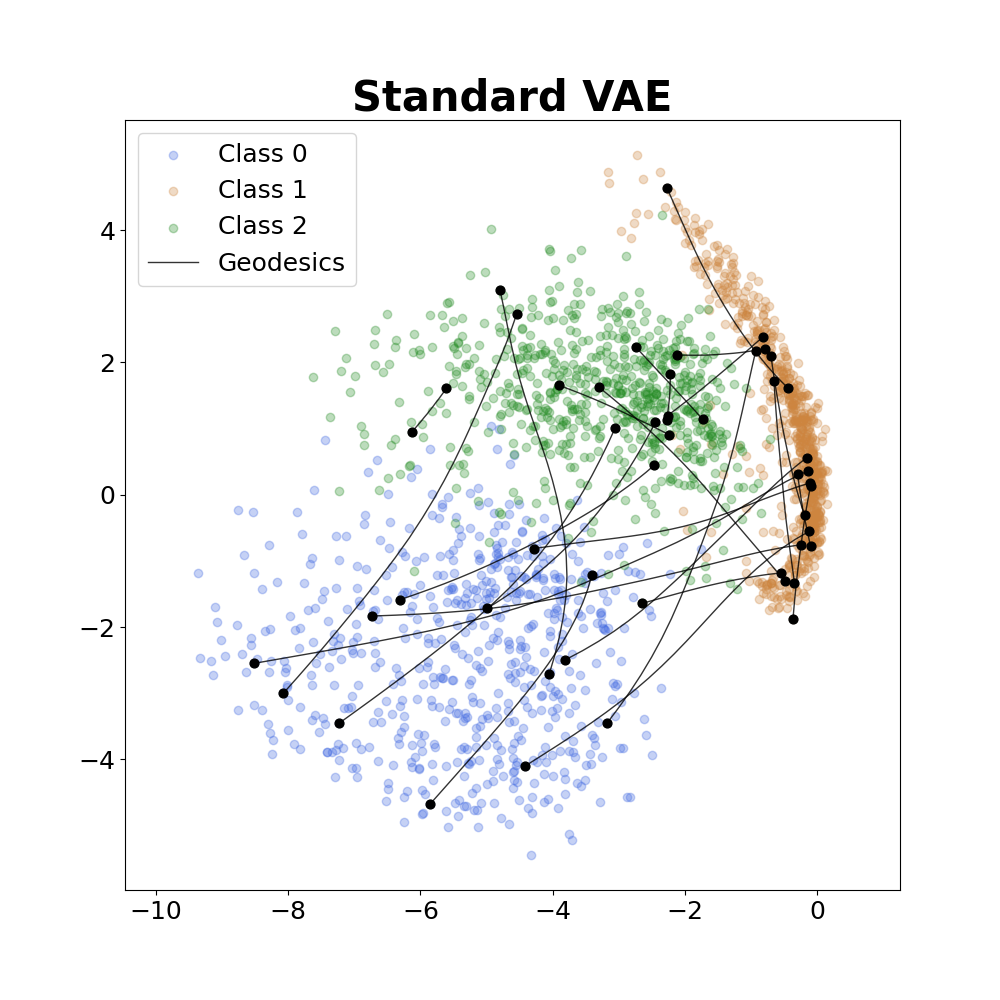
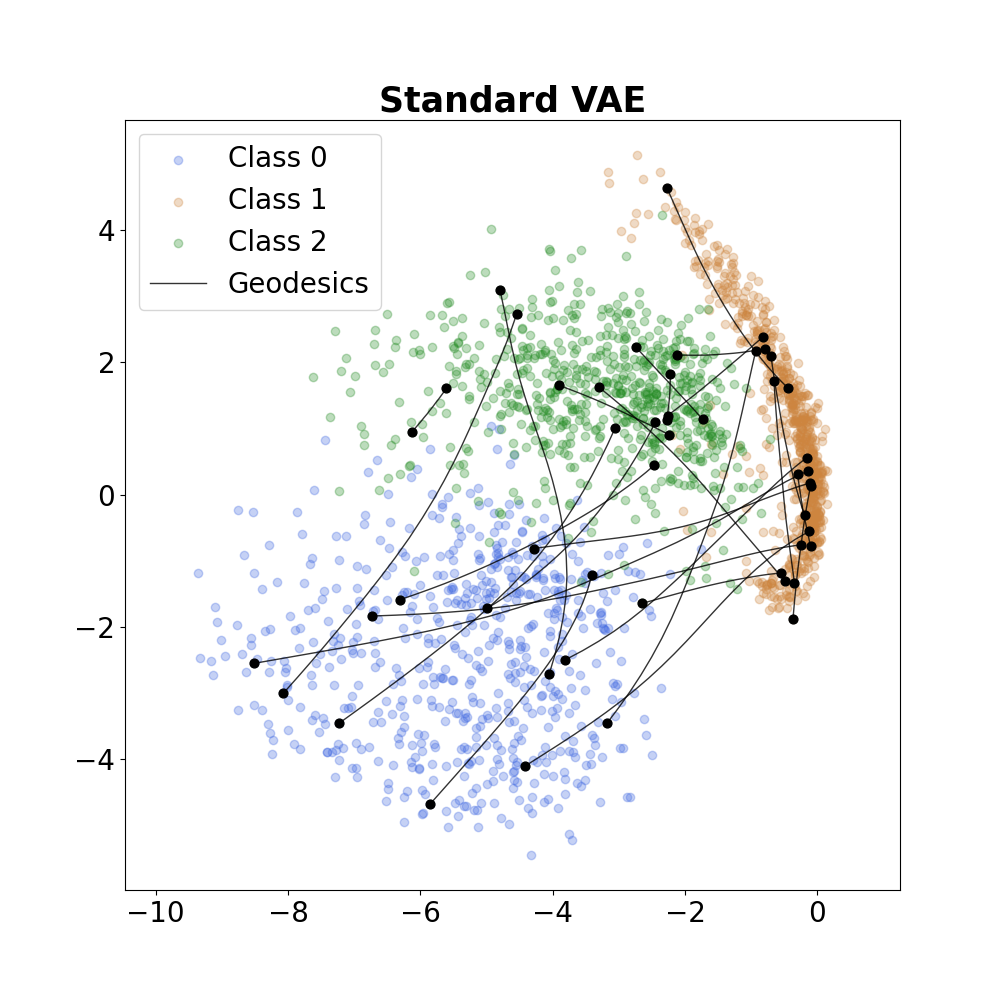
added new plots for PartB

diff --git a/PartA/ensemble_vae_v2.py b/PartA/ensemble_vae_v2.py
@@ -68,7 +68,7 @@ class GaussianEncoder(nn.Module):
 
 
 class GaussianDecoder(nn.Module):
-    def __init__(self, decoder_net):
+    def __init__(self, decoder_nets: list):
         """
         Define a Bernoulli decoder distribution based on a given decoder network.
 
@@ -79,7 +79,8 @@ class GaussianDecoder(nn.Module):
            tensor of dimension (batch_size, feature_dim1, feature_dim2).
         """
         super(GaussianDecoder, self).__init__()
-        self.decoder_net = decoder_net
+        self.decoder_nets = nn.ModuleList(decoder_nets)
+        self.num_decoders = len(decoder_nets)
         # self.std = nn.Parameter(torch.ones(28, 28) * 0.5, requires_grad=True) # In case you want to learn the std of the gaussian.
 
     def forward(self, z):
@@ -90,7 +91,8 @@ class GaussianDecoder(nn.Module):
         z: [torch.Tensor]
            A tensor of dimension `(batch_size, M)`, where M is the dimension of the latent space.
         """
-        means = self.decoder_net(z)
+        decoder_choice = 0
+        means = self.decoder_nets[decoder_choice](z)
         return td.Independent(td.Normal(loc=means, scale=1e-1), 3)
 
 
@@ -295,7 +297,7 @@ if __name__ == "__main__":
     # args = parser.parse_args()
     
     # For debugging
-    args = parser.parse_args(["plot", "--experiment-folder", "experiment", "--device", "cpu", "--batch-size", "2048", "--epochs-per-decoder", "50", "--latent-dim", "2", "--num-decoders", "3", "--num-reruns", "10", "--num-curves", "10", "--num-t", "20"])
+    args = parser.parse_args(["plot", "--experiment-folder", "experiment", "--device", "cpu", "--batch-size", "2048", "--epochs-per-decoder", "50", "--latent-dim", "2", "--num-decoders", "1", "--num-reruns", "10", "--num-curves", "10", "--num-t", "20"])
 
     print("# Options")
     for key, value in sorted(vars(args).items()):
@@ -417,11 +419,11 @@ if __name__ == "__main__":
             plt.scatter([start[0]], [start[1]], color='black', zorder=2, s=40, marker='o')
             plt.scatter([end[0]], [end[1]], color='black', zorder=2, s=40, marker='o')
 
-        plt.title("Standard VAE", fontsize=30, fontweight='bold')
+        plt.title("Standard VAE", fontsize=25, fontweight='bold')
         plt.axis('equal')
-        plt.xticks(fontsize=18)
-        plt.yticks(fontsize=18)
-        plt.legend(prop={'size': 18})
+        plt.xticks(fontsize=20)
+        plt.yticks(fontsize=20)
+        plt.legend(prop={'size': 20})
         plt.savefig(save_path)
 
 ###########################################
@@ -493,10 +495,14 @@ if __name__ == "__main__":
 
         model = VAE(
             GaussianPrior(M),
-            GaussianDecoder(new_decoder()),
+            GaussianDecoder([new_decoder() for _ in range(args.num_decoders)]),
             GaussianEncoder(new_encoder()),
         ).to(device)
-        model.load_state_dict(torch.load(args.experiment_folder + "/model.pt", map_location=torch.device('cpu')))
+
+        # print(os.getcwd())
+        model_name = "model_run1_dec1"
+        path = "../PartB_Information_geom/experiment/" + model_name + ".pt"
+        model.load_state_dict(torch.load(path, map_location=torch.device('cpu')))
         model.eval()
 
  ###########################################
@@ -541,9 +547,11 @@ if __name__ == "__main__":
         # Compute geodesics for latent variable pairs
         geodesics = []
         for i, (c0, c1) in enumerate(pairs):
+            # c0 and c1 are the start and end points of the curve
             c0 = c0.unsqueeze(0)
             c1 = c1.unsqueeze(0)
             
+            # ct is the points that approximate the curve and num_t is the number of points
             num_t = args.num_t
             ct = torch.nn.Parameter(
                 torch.linspace(0, 1, num_t + 2)[1:-1].unsqueeze(1) * (c1 - c0) + c0, 
@@ -554,16 +562,19 @@ if __name__ == "__main__":
 
             loss = 0
             for step in tqdm(range(50), desc=loss):
+                # Define the full curve
                 c = torch.cat([c0, ct, c1], dim=0).to(device)
+
+                # Apply the decoder mean to the curve
                 f_c = model.decoder(c).mean
 
                 loss = 0
+
+                # Compute the curve energy cf. eq. 8.7 "Differential Geometry For Generative Modeling"
                 S = len(c)
                 curve_energy = sum([((f_c[s] - f_c[s-1]) ** 2).sum() for s in range(1, S)])
+                
                 loss += curve_energy
-
-                if step % 10 == 0:
-                    print(f"Step {step}: Loss = {loss.item():.4f}")
 
                 optimizer.zero_grad()
                 loss.backward(retain_graph = True)
@@ -579,18 +590,21 @@ if __name__ == "__main__":
             end_idx = torch.argmin(torch.norm(latents - end.unsqueeze(0), dim=1))
             pair_labels.append((labels[start_idx].item(), labels[end_idx].item()))
 
-        save_geodesic_data_npz(latents, labels, geodesics, pairs, pair_labels, path="geodesics_data2.npz")
+        save_geodesic_data_npz(latents, labels, geodesics, pairs, pair_labels, path="geodesic_data/" + model_name + ".npz")
 
     elif args.mode == "plot":
         # Load the saved geodesic data
-        data = np.load("geodesics_data2.npz")
+        # for nb in range(10):
+        #     path = f"../PartB/experiment/model_run{nb}_dec1.pt"
+        model_name = "model_run1_dec1"
+        data = np.load("geodesic_data/" + model_name + ".npz")
         latents = torch.tensor(data["latent_points"])
         labels = torch.tensor(data["labels"])
         geodesics = [torch.tensor(g) for g in data["geodesic_points"]]
         pairs = [torch.tensor((s, e)) for s, e in zip(data["start_points"], data["end_points"])]
         pair_labels = np.array(data["start_classes"]), np.array(data["end_classes"])
 
-        plot_latent_space_with_geodesics(latents, labels, geodesics, pairs)
+        plot_latent_space_with_geodesics(latents, labels, geodesics, pairs, save_path="geodesic_plots/" + model_name +".png")
  
  ###########################################
             

diff --git a/PartB_Information_geom/ensemble_vae_v2.py b/PartB_Information_geom/ensemble_vae_v2.py
@@ -438,7 +438,7 @@ if __name__ == "__main__":
                     end_classes=np_classes[:, 1],
                     losses = np_losses)
     
-    def plot_latent_space_with_geodesics(latents, labels, geodesics, pairs, num_decoders, save_path="geodesic_plot.png"):
+    def plot_latent_space_with_geodesics(latents, labels, geodesics, pairs, save_path="geodesic_plot.png"):
         latents_np = latents.cpu().numpy()
         labels_np = labels.cpu().numpy()
 
@@ -492,14 +492,11 @@ if __name__ == "__main__":
             if is_special and not special_plotted:
                 special_plotted = True
 
-        if num_decoders > 1:
-            plt.title("Ensemble decoder VAE", fontsize=25, fontweight='bold')
-        else:
-            plt.title("Standard VAE", fontsize=25, fontweight='bold')
+        plt.title("Ensemble decoder VAE", fontsize=25, fontweight='bold')
         plt.axis('equal')
-        plt.xticks(fontsize=20)
-        plt.yticks(fontsize=20)
-        plt.legend(prop={'size': 20})
+        plt.xticks(fontsize=18)
+        plt.yticks(fontsize=18)
+        plt.legend(prop={'size': 18})
         plt.savefig(save_path)
     
 
@@ -674,16 +671,14 @@ if __name__ == "__main__":
 
     elif args.mode == "plot":
         # Load the geodesic data
-        for num_rerun in range(args.num_reruns):
-            for num_decoder in range(args.num_decoders):
-                model_name = f"model_run{num_rerun}_dec{num_decoder+1}"
-                data_path = f"geodesic_data/{model_name}_data.npz"
-                data = np.load(data_path)
-                all_latents = torch.tensor(data["latent_points"])
-                all_labels = torch.tensor(data["labels"])
-                geodesics = [torch.tensor(g) for g in data["geodesic_points"]]
-                pairs = [tuple(map(torch.tensor, p)) for p in data["start_points"]]
-                
-                plot_latent_space_with_geodesics(all_latents, all_labels, geodesics, pairs, num_decoder, save_path = f"geodesic_plots_v2/{model_name}_plot.png")
+        model_name = "model_run0_dec2"
+        data_path = f"geodesic_data/{model_name}_data.npz"
+        data = np.load(data_path)
+        all_latents = torch.tensor(data["latent_points"])
+        all_labels = torch.tensor(data["labels"])
+        geodesics = [torch.tensor(g) for g in data["geodesic_points"]]
+        pairs = [tuple(map(torch.tensor, p)) for p in data["start_points"]]
+        
+        plot_latent_space_with_geodesics(all_latents, all_labels, geodesics, pairs, save_path = f"geodesic_plots_v2/{model_name}_plot.png")
 
             
